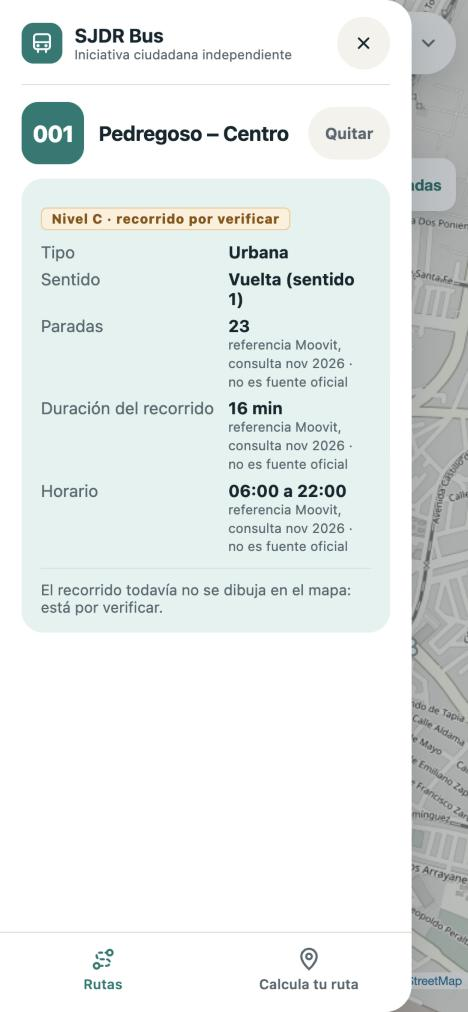
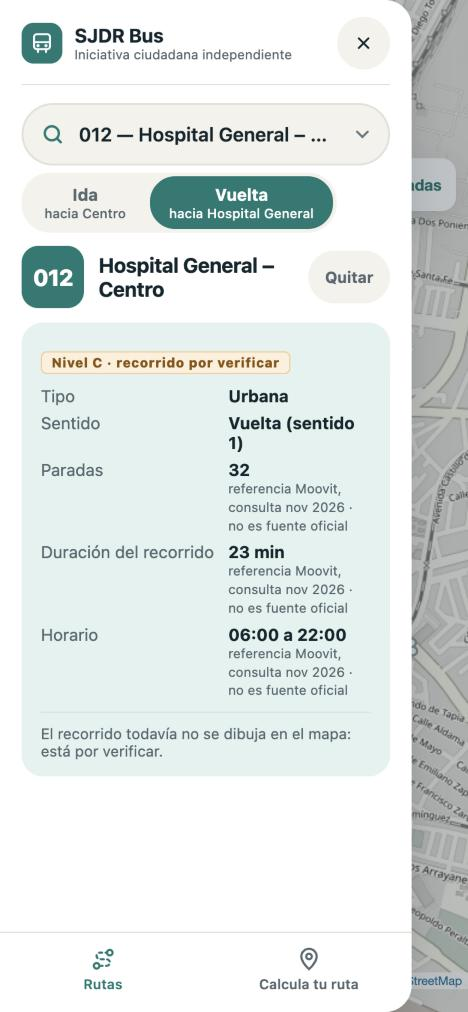
B2 · E-03 (D-48, ajuste 2): menú integrado en computadora; el menú abierto es el buscador
Computadora: barra a todo lo ancho con ☰ y «SJDR Bus»; al abrir, el menú
queda pegado a la izquierda con pestañas arriba y el mapa se recorre para
verse completo, sin velo. En teléfono y computadora, con el menú abierto el
buscador y el sentido pasan a su cabeza (buscador y planeador). Prueba nueva
a 1280 × 800 y revisión del buscador dentro del menú a 390 px. Puerta de
calidad: 131/131 y 12/12 en navegador. Lección 7: 4.ª ocurrencia, atrapada
por el hook antes del commit.

diff --git a/web/src/estilos.css b/web/src/estilos.css
@@ -238,14 +238,64 @@ html, body { margin: 0; height: 100%; overflow: hidden; }
 .cerrar.quitar { width: auto; padding: 0 14px; border-radius: 22px; font: inherit; font-size: 13px; font-weight: 700; color: var(--suave); }
 .hoja-titulo { font-size: 17px; line-height: 1.35; color: var(--suave); font-weight: 600; }
 
+@media (prefers-reduced-motion: reduce) {
+  .hoja, .hoja.cerrada { transition: none; }
+}
+
+/* D-48, ajuste 2 (Miguel, 20 nov 2026): el menú abierto se vuelve el buscador
+   y planeador. Con el menú abierto, el buscador y el sentido pasan a la cabeza
+   del menú, en teléfono y en computadora. */
+.marca-barra { display: none; }
+.boton-menu { color: var(--tinta); }
+.hoja .hoja-cuerpo { padding-top: 120px; }
+.app.menu-abierto .barra {
+  z-index: 1300; left: 18px; right: auto;
+  top: calc(max(14px, env(safe-area-inset-top)) + 72px);
+  width: calc(min(380px, 88vw) - 36px);
+}
+.app.menu-abierto .boton-menu { display: none; }
+.app.menu-abierto .buscador select { background: var(--fondo); box-shadow: none; border: 1.5px solid var(--borde); }
+.app.menu-abierto .segmento { background: var(--fondo); box-shadow: none; }
+
+/* Computadora: barra de la app a todo lo ancho con ☰ y nombre (como la
+   referencia de Miguel); el menú queda pegado a la izquierda, debajo de la
+   barra, y el mapa se recorre para verse completo. */
 @media (min-width: 768px) {
-  .barra { right: auto; width: 440px; }
-  .leaflet-top.leaflet-right { top: max(10px, env(safe-area-inset-top)); }
-  /* En computadora el menú abre debajo de la barra: buscador y sentido siguen a la mano. */
-  .hoja { top: calc(max(10px, env(safe-area-inset-top)) + 124px); left: 10px; bottom: 14px; width: 440px; border-radius: 22px; padding-top: 16px; }
+  .barra, .app.menu-abierto .barra {
+    top: 0; left: 0; right: 0; width: auto; height: 60px; padding: 0 12px;
+    align-items: center; gap: 6px; background: var(--primario); box-shadow: 0 2px 10px rgba(18, 38, 45, 0.18);
+    z-index: 1300;
+  }
+  .boton-menu, .app.menu-abierto .boton-menu {
+    display: grid; width: 48px; height: 48px; min-height: 48px; border-radius: 12px;
+    background: transparent; box-shadow: none; color: #fff;
+  }
+  .boton-menu:focus-visible { outline-color: #fff; }
+  .marca-barra { display: block; color: #fff; font-size: 20px; font-weight: 800; letter-spacing: -0.01em; }
+  .controles { position: absolute; top: 72px; left: 12px; width: 400px; }
+  .app.menu-abierto .controles { top: 124px; left: 16px; width: 368px; }
+
+  .mapa { top: 60px; transition: left 280ms cubic-bezier(.2, .8, .2, 1); }
+  .app.menu-abierto .mapa { left: 400px; }
+  .leaflet-top.leaflet-right { top: 12px; }
+  .app.menu-abierto .pie { left: 400px; }
   .velo { display: none; }
+
+  .hoja {
+    top: 60px; left: 0; bottom: 0; width: 400px; border-radius: 0;
+    box-shadow: 1px 0 0 var(--borde); padding: 0 16px 12px;
+  }
+  .hoja .hoja-cuerpo { padding-top: 130px; }
+  .hoja-cabeza { position: absolute; top: 3px; right: 8px; padding: 0; margin: 0; border: 0; }
+  .hoja-cabeza .logo, .hoja-marca { display: none; }
+  .pestanas {
+    order: -1; margin: 0 -16px; padding: 0 64px 0 0;
+    border-top: 0; border-bottom: 1px solid var(--borde);
+  }
+  .pestanas button { min-height: 52px; }
+  .pestanas .activo { box-shadow: inset 0 -3px 0 var(--primario); }
 }
 
 @media (prefers-reduced-motion: reduce) {
-  .hoja, .hoja.cerrada { transition: none; }
+  .mapa { transition: none; }
 }

diff --git a/web/src/main.ts b/web/src/main.ts
@@ -62,12 +62,16 @@ function contenidoParada(p: Parada): HTMLElement {
 
 // La ficha de la parada nunca queda debajo de la barra de arriba, del menú
 // lateral abierto o del botón «Ver detalle»: el mapa se mueve lo necesario.
+// Se mide contra la caja del mapa: en computadora el mapa empieza debajo de la
+// barra y se recorre a la derecha cuando el menú está abierto.
 function margenesFicha(): { arriba: L.Point; abajo: L.Point } {
-  const barra = document.querySelector<HTMLElement>('#barra');
+  const m = document.querySelector<HTMLElement>('#mapa')!.getBoundingClientRect();
+  const c = document.querySelector<HTMLElement>('#controles')!.getBoundingClientRect();
   const h = document.querySelector<HTMLElement>('#hoja');
-  const abajoBarra = barra ? barra.getBoundingClientRect().bottom : 0;
-  const anchoMenu = h && !h.classList.contains('cerrada') ? h.getBoundingClientRect().right : 0;
-  return { arriba: L.point(anchoMenu + 16, abajoBarra + 16), abajo: L.point(16, 80) };
+  const sobreMapa = c.right > m.left && c.bottom > m.top;
+  const arriba = sobreMapa ? c.bottom - m.top : 0;
+  const izquierda = h && !h.classList.contains('cerrada') ? Math.max(0, h.getBoundingClientRect().right - m.left) : 0;
+  return { arriba: L.point(izquierda + 16, arriba + 16), abajo: L.point(16, 80) };
 }
 
 function dibujarParadas(paradas: Parada[]): void {
@@ -260,8 +264,13 @@ function panelAbierto(): boolean {
   return !hoja.classList.contains('cerrada');
 }
 
+const app = document.querySelector<HTMLElement>('.app')!;
+
 function ponerPanel(abierto: boolean): void {
   hoja.classList.toggle('cerrada', !abierto);
+  app.classList.toggle('menu-abierto', abierto);
+  // En computadora el mapa se recorre para quedar completo junto al menú.
+  window.setTimeout(() => mapa.invalidateSize(), 320);
   hoja.toggleAttribute('inert', !abierto);
   velo.hidden = !abierto;
   verDetalle.hidden = abierto || !estado.ruta;

diff --git a/web/index.html b/web/index.html
@@ -14,9 +14,12 @@
     <div class="app">
       <main id="mapa" class="mapa" aria-label="Mapa de San Juan del Río"></main>
       <!-- D-48: arriba, sobre el mapa, lo que pide la regla 5 (selector + sentido),
-           y el botón del menú lateral, a la izquierda. El nombre de la app va dentro del menú. -->
+           y el botón del menú lateral, a la izquierda. En teléfono el nombre va dentro
+           del menú; en computadora, en la barra de arriba. Con el menú abierto, el
+           buscador y el sentido pasan a la cabeza del menú (buscador y planeador). -->
       <header class="barra" id="barra">
         <button type="button" class="boton-menu" id="boton-menu" aria-label="Menú de rutas" aria-expanded="false" aria-controls="hoja"></button>
+        <span class="marca-barra">SJDR Bus</span>
         <form class="controles" id="controles" aria-label="Elige ruta y sentido">
           <div class="buscador">
             <label for="ruta">Ruta</label>
@@ -51,7 +54,7 @@
         </div>
         <div class="hoja-cuerpo">
           <div id="modo-rutas" class="modo">
-            <h2 class="hoja-titulo" id="hoja-titulo">Elige tu ruta arriba, en «¿A dónde vas?»</h2>
+            <h2 class="hoja-titulo" id="hoja-titulo">Elige tu ruta en «¿A dónde vas?»</h2>
             <div class="encabezado-ruta" id="encabezado-ruta" hidden></div>
             <section id="detalle" class="detalle" aria-live="polite" aria-label="Detalle de la ruta" hidden></section>
           </div>

diff --git a/web/src/iconos.ts b/web/src/iconos.ts
@@ -4,7 +4,7 @@ export const ICONO_CERRAR =
 
 // Botón de menú (E-02): tres líneas.
 export const ICONO_MENU =
-  '<svg width="22" height="22" viewBox="0 0 24 24" fill="none" stroke="#12262d" stroke-width="2.4" stroke-linecap="round" aria-hidden="true"><path d="M4 7h16M4 12h16M4 17h16"/></svg>';
+  '<svg width="22" height="22" viewBox="0 0 24 24" fill="none" stroke="currentColor" stroke-width="2.4" stroke-linecap="round" aria-hidden="true"><path d="M4 7h16M4 12h16M4 17h16"/></svg>';
 
 // Pestañas «Rutas» y «Calcula tu ruta» (M-06).
 export const ICONO_RUTAS =

diff --git a/docs/COLA-NOCTURNA.md b/docs/COLA-NOCTURNA.md
@@ -119,7 +119,7 @@ ruta», D-16 paradas desde OSM, D-18 sentido 0/1.
 | M-08 | **Pruebas en navegador a 390 px.** Playwright (Apache-2.0, gratuito) con Chromium: comprueba los criterios de HANDOFF §11.8 que aplican a este lote (primera pantalla sin scroll, 42 opciones 40 + 2, detalle por sentido, «en verificación» en las de solo inventario, sin restos al cambiar de ruta) y la atribución de OpenStreetMap visible. Guarda capturas de pantalla a 390 px en `docs/evidencia/b2a/`. Entra a `npm run verificar` y a GitHub Actions. Si el navegador de prueba no se puede instalar gratis en el ambiente, el turno se detiene y lo explica en el PR. | Pruebas en verde en local y en GitHub Actions (lección 5 de `CLAUDE.md`); capturas guardadas | EN REVISIÓN (rama noche/2026-11-20): verde en local y en GitHub Actions (20 nov 2026); comprobado también en la Mac de Miguel el 20 nov 2026, 1:12 am (10 passed; lección 5 cumplida). PR 2 integrado a la rama cierre/2026-11-19-publico el 20 nov 2026 |
 | E-01 | **Aplicar el estilo aprobado (D-30) a la app.** Se hace en la sesión de día del 19 nov 2026 (D-31), antes que M-05 a M-08; usa como patrón `web/muestra-patron.html` y sus capturas. Cambia solo el aspecto y el acomodo; no agrega datos. (1) Paleta de D-30 como variables CSS y letra del sistema. (2) Mapa a pantalla completa con las mismas teselas de OpenStreetMap en tonos suaves (filtro CSS), atribución visible. (3) Barra superior flotante con «SJDR Bus» y «Iniciativa ciudadana independiente». (4) Hoja inferior con asa: en el inicio, «¿Qué camión tomas?», el **mismo `<select>` nativo** de las 42 rutas con aspecto de buscador (regla 9: ninguna ruta se oculta ni se filtra) y el control Ida/Vuelta con subtítulo «hacia [destino]» / «hacia [origen]» tomado de `route_long_name` (D-18). (5) Con ruta elegida: insignia con el número, nombre, sentido y las filas del detalle de M-04 con su fuente y «Nivel C»; las rutas sin ficha siguen diciendo «en verificación». Tocar el asa abre o cierra la hoja. (6) Deja listos en el CSS los estilos de las paradas (puntos grises) y de las pestañas «Rutas» / «Calcula tu ruta» con íconos SVG propios, para que M-05 y M-06 los usen; no adelanta esas tareas. **Prohibido en esta tarea:** tiempo estimado, camión, línea de tiempo o cualquier cifra que no exista hoy en los datos (llegan con R-06 y B4). Sin dependencias nuevas. | Revisión en navegador a 390 × 844 (las pruebas automáticas de navegador llegan con M-08, que deberá cubrir esto): primera pantalla sin scroll con mapa + selector + sentido; 42 opciones (40 + 2); detalle por sentido; «en verificación» en las de solo inventario; sin restos al cambiar de ruta; atribución de OpenStreetMap y leyenda visibles; botones de al menos 44 px. Prueba automática nueva: ningún texto con «min» de tiempo calculado ni «en vivo». Capturas a 390 px en `docs/evidencia/e01/` junto a las de la muestra, y revisión de consistencia (lección 3): el mismo número y nombre en selector, hoja y título. `npm run verificar` en verde | EN REVISIÓN (rama cierre/2026-11-19-publico; sesión de día del 19 nov 2026; capturas en `docs/evidencia/e01/`) |
 | E-02 | **Menú lateral en pantallas anchas.** Pedido por Miguel (19 nov 2026, 1:50 pm): en el navegador de computadora la hoja de abajo se siente tosca. Desde 768 px de ancho, la hoja de E-01 se vuelve un **panel lateral izquierdo** que entra deslizándose hacia la derecha y sale hacia la izquierda con animación, abierto y cerrado con un botón de menú en la barra superior. Abierto al cargar. En teléfono (menos de 768 px) se queda la hoja de abajo: la regla 5 exige mapa + ruta + sentido visibles sin tocar nada. Respeta «reducir movimiento» del sistema. | A 1280 × 800: el botón abre y cierra el panel con animación; el selector, el sentido y el detalle funcionan dentro; atribución visible; sin scroll de página. A 390 × 844: igual que E-01 y sin botón de menú. `npm run verificar` en verde | EN REVISIÓN (rama cierre/2026-11-19-publico; sesión de día del 19 nov 2026; capturas en `docs/evidencia/e02/`) |
-| E-03 | **Pantalla con mapa completo (D-48).** Pedido por Miguel (20 nov 2026): la hoja de abajo ocupaba media pantalla. Arriba flotan el mismo `<select>` de las rutas con la invitación «¿A dónde vas? Elige tu ruta», el control Ida / Vuelta y, a la izquierda, el botón ☰. El menú lateral izquierdo (nombre, detalle, «Calcula tu ruta») entra y sale con animación, cerrado al cargar, igual en teléfono y computadora (en computadora abre debajo de la barra). Ajuste de Miguel: menú y ☰ a la izquierda. Con ruta elegida, abajo aparece «Ver detalle de la ruta N». Leyenda y atribución en una línea chica abajo. | A 390 × 844 y 1280 × 800: menú cerrado al cargar; la barra de arriba mide menos de la quinta parte del alto; selector y sentido sin tocar nada; ☰, Esc y el velo abren y cierran; detalle por sentido, «Calcula tu ruta» y paradas funcionan; leyenda y atribución visibles; botones de 44 px o más. `npm run verificar` en verde | EN REVISIÓN (rama cierre/2026-11-19-publico; sesión de día del 20 nov 2026; capturas en `docs/evidencia/e03/`) |
+| E-03 | **Pantalla con mapa completo (D-48).** Pedido por Miguel (20 nov 2026): la hoja de abajo ocupaba media pantalla. Arriba flotan el mismo `<select>` de las rutas con la invitación «¿A dónde vas? Elige tu ruta», el control Ida / Vuelta y, a la izquierda, el botón ☰. El menú lateral izquierdo (nombre, detalle, «Calcula tu ruta») entra y sale con animación, cerrado al cargar, igual en teléfono y computadora (en computadora abre debajo de la barra). Ajuste de Miguel: menú y ☰ a la izquierda. Ajuste 2: en computadora, barra con ☰ y nombre; el menú abierto queda integrado a la izquierda y el mapa se recorre; en los dos tamaños el buscador y el sentido pasan al menú abierto. Con ruta elegida, abajo aparece «Ver detalle de la ruta N». Leyenda y atribución en una línea chica abajo. | A 390 × 844 y 1280 × 800: menú cerrado al cargar; la barra de arriba mide menos de la quinta parte del alto; selector y sentido sin tocar nada; ☰, Esc y el velo abren y cierran; detalle por sentido, «Calcula tu ruta» y paradas funcionan; leyenda y atribución visibles; botones de 44 px o más. `npm run verificar` en verde | EN REVISIÓN (rama cierre/2026-11-19-publico; sesión de día del 20 nov 2026; capturas en `docs/evidencia/e03/`) |
 
 ### Lote de investigación (D-22) · aprobado por Miguel el 19 nov 2026 (D-23)
 

diff --git a/docs/DECISIONES.md b/docs/DECISIONES.md
@@ -1135,6 +1135,19 @@ Miguel).
 - **Ajuste de Miguel (20 nov 2026, 2:33 pm), al ver las capturas:** «es un
   buen approach»; el menú y el ☰ van del lado **izquierdo** (la primera versión
   los ponía a la derecha). Lo demás se aprobó como estaba.
+- **Ajuste 2 de Miguel (20 nov 2026; anotado a las 2:40 pm), con capturas de su referencia
+  con el menú abierto:** en computadora el menú debe verse **integrado** y el
+  mapa completo. Queda así:
+  - Computadora: barra de la app a todo lo ancho con ☰ y «SJDR Bus». Con el
+    menú cerrado, el buscador y el sentido flotan sobre el mapa. Al abrir, el
+    menú queda pegado a la izquierda debajo de la barra, con sus pestañas
+    arriba («Rutas», «Calcula tu ruta», cerrar), y **el mapa se recorre** a la
+    derecha y se ve completo, sin velo.
+  - En los dos tamaños, con el menú abierto, el buscador y el sentido pasan a
+    la cabeza del menú: el menú se vuelve el buscador y planeador (se puede
+    cambiar Ida / Vuelta viendo el detalle). En teléfono lo demás no cambió.
+  - La tarjeta de ayuda de la referencia («Así funciona») no se agregó: queda
+    como pregunta para Miguel.
 - **Cambia:** la hoja inferior de D-30 y el panel izquierdo de E-02. La
   paleta, la letra y el resto de D-30 siguen.
 - **Criterio de aceptación:** a 390 × 844 y a 1280 × 800, con el menú cerrado,

diff --git a/CLAUDE.md b/CLAUDE.md
@@ -161,7 +161,10 @@ puede, convertir la regla en una prueba automática.
      un comentario de `scripts/cruces.mjs` (decisión de Miguel sobre la
      23/023); el `date` corrido al recibir el mensaje decía 2:14 am. Se
      corrigió antes del commit 9cf286d.
-   Ocurrencias: 3 · Estado: **PROMOVIDA → hook `hora-real`** (20 nov 2026,
+   - 2026-11-20 (4.ª vez, ya con el control): Claude escribió de memoria la hora
+     del ajuste 2 de D-48; el hook avisó «18 min DESPUÉS de la hora real» y se
+     corrigió antes del commit. El control funcionó.
+   Ocurrencias: 4 · Estado: **PROMOVIDA → hook `hora-real`** (20 nov 2026,
    con el sí de Miguel): `.claude/hooks/hora-real.mjs`, conectado en
    `.claude/settings.json` (PostToolUse de Edit, Write, MultiEdit y Bash). Si
    el texto nuevo trae una hora («2:13 am», «1:28 y 1:43 am») que no estaba
